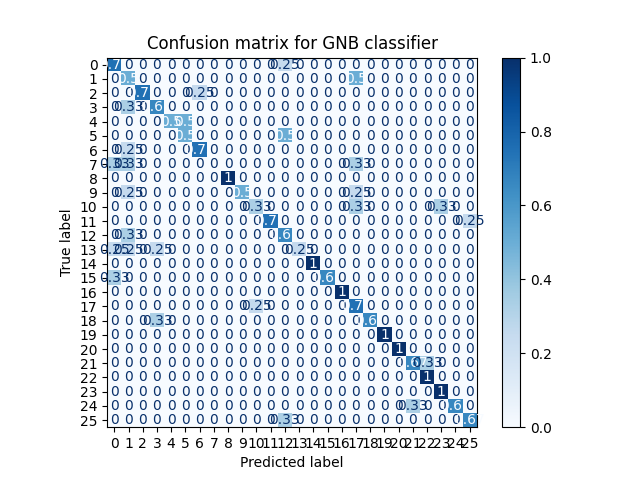
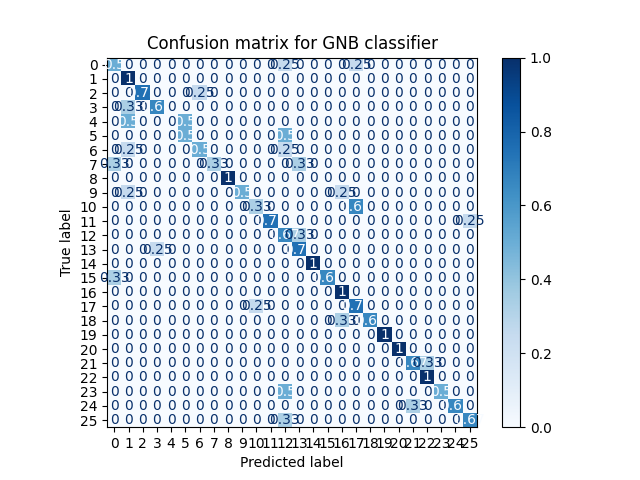
Update GNB to use training set only

diff --git a/classifiers.py b/classifiers.py
@@ -25,12 +25,8 @@ class Classifiers:
     def GNB(self):
         classifier = GaussianNB()
 
-        # Since no optimizations are needed here, we can add the validation set to the training set
-        X_train_extended = self.X_train + self.X_validate
-        y_train_extended = self.y_train + self.y_validate
-
         # Train the model
-        classifier.fit(X_train_extended, y_train_extended)
+        classifier.fit(self.X_train, self.y_train)
 
         # Test the model and save the results
         prediction = classifier.predict(self.X_test)

diff --git a/main.py b/main.py
@@ -23,6 +23,6 @@ if __name__ == "__main__":
                 print(f"Running: {sys.argv[1]} for dataset {dataset}")
                 clfs[sys.argv[1]]()
         except:
-            print(f"Supported paramater list:\n{clfs.keys()}")
+            print(f"Supported parameter list:\n{clfs.keys()}")
             print("Example: python main.py GNB")
             sys.exit()
